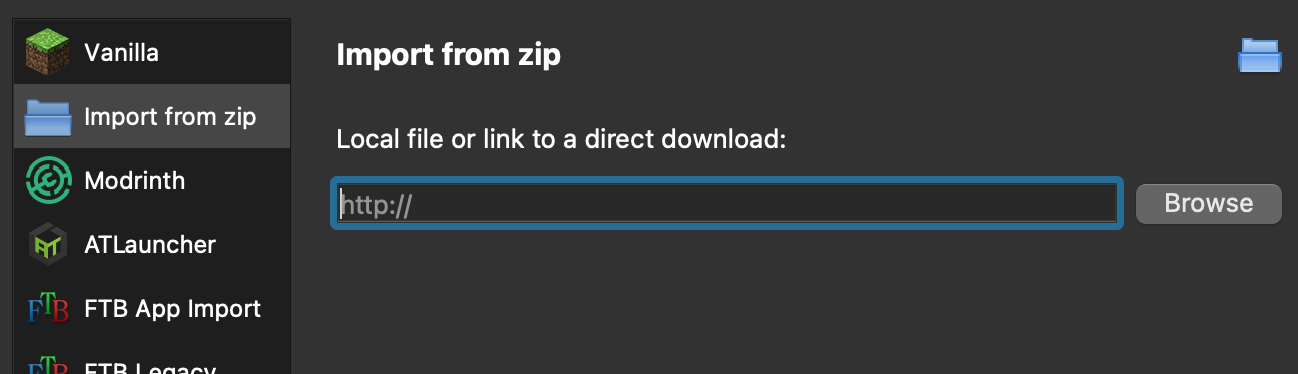
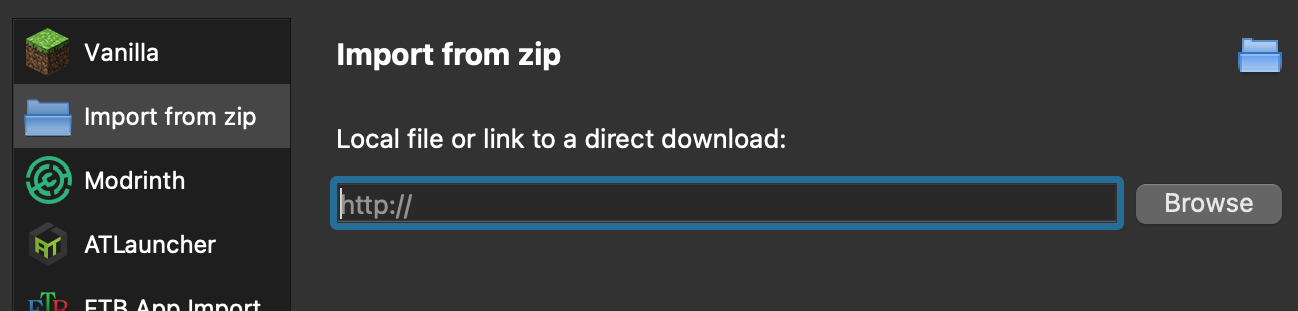
download page tweaks

diff --git a/src/routes/download/+page.svelte b/src/routes/download/+page.svelte
@@ -9,6 +9,8 @@
   import WindowsIcon from "$lib/components/icons/WindowsIcon.svelte";
   import AppleIcon from "$lib/components/icons/AppleIcon.svelte";
   import { Youtube } from "svelte-youtube-lite";
+  import ListIcon from "$lib/components/icons/ListIcon.svelte";
+  import DiscordIcon from "$lib/components/icons/DiscordIcon.svelte";
 
   const buttons: Record<
     (typeof downloads)[number]["name"],
@@ -71,7 +73,7 @@
               <strong><b>Import from zip</b></strong>
             </p>
             <div
-              class="w-full rounded-xl overflow-hidden bg-white/5 aspect-[1298/374]"
+              class="w-full rounded-xl overflow-hidden bg-white/5 aspect-[1298/311]"
             >
               <img src={importFromZipTab} alt="Import from zip" />
             </div>
@@ -114,19 +116,6 @@
                     </TooltipBtn>
                   </CopyBtn>
                   <CopyBtn
-                    message={download.links.windows}
-                    let:justCopied
-                    let:copyMessage
-                  >
-                    <TooltipBtn
-                      on:click={copyMessage}
-                      tooltip={justCopied ? "Copied!" : "Copy Windows Link"}
-                      class="rounded-full hover:bg-white/5 p-1"
-                    >
-                      <WindowsIcon class="size-6" />
-                    </TooltipBtn>
-                  </CopyBtn>
-                  <CopyBtn
                     message={download.links.mac}
                     let:justCopied
                     let:copyMessage
@@ -137,6 +126,19 @@
                       class="rounded-full hover:bg-white/5 p-1"
                     >
                       <AppleIcon class="size-6" />
+                    </TooltipBtn>
+                  </CopyBtn>
+                  <CopyBtn
+                    message={download.links.windows}
+                    let:justCopied
+                    let:copyMessage
+                  >
+                    <TooltipBtn
+                      on:click={copyMessage}
+                      tooltip={justCopied ? "Copied!" : "Copy Windows Link"}
+                      class="rounded-full hover:bg-white/5 p-1"
+                    >
+                      <WindowsIcon class="size-6" />
                     </TooltipBtn>
                   </CopyBtn>
                 </div>
@@ -152,13 +154,17 @@
           <div class="step-content">
             <p>Click OK, launch the instance, and <b>start playing!</b></p>
             <div class="flex gap-2">
-              <a href="/guidelines" class="btn"> Read the Guidelines </a>
+              <a href="/guidelines" class="btn">
+                <ListIcon class="size-5" />
+                Read the Guidelines
+              </a>
               <a
                 href="https://mcsrranked.com/discord"
                 target="_blank"
                 rel="noopener noreferrer"
                 class="btn"
               >
+                <DiscordIcon class="size-5" />
                 Join the Discord
               </a>
             </div>

diff --git a/src/lib/components/icons/ListIcon.svelte b/src/lib/components/icons/ListIcon.svelte
@@ -1,0 +1,6 @@
+<svg xmlns="http://www.w3.org/2000/svg" viewBox="0 0 24 24" {...$$props}>
+  <path
+    fill="currentColor"
+    d="M7 9V7h14v2zm0 4v-2h14v2zm0 4v-2h14v2zM4 9q-.425 0-.712-.288T3 8t.288-.712T4 7t.713.288T5 8t-.288.713T4 9m0 4q-.425 0-.712-.288T3 12t.288-.712T4 11t.713.288T5 12t-.288.713T4 13m0 4q-.425 0-.712-.288T3 16t.288-.712T4 15t.713.288T5 16t-.288.713T4 17"
+  />
+</svg>
